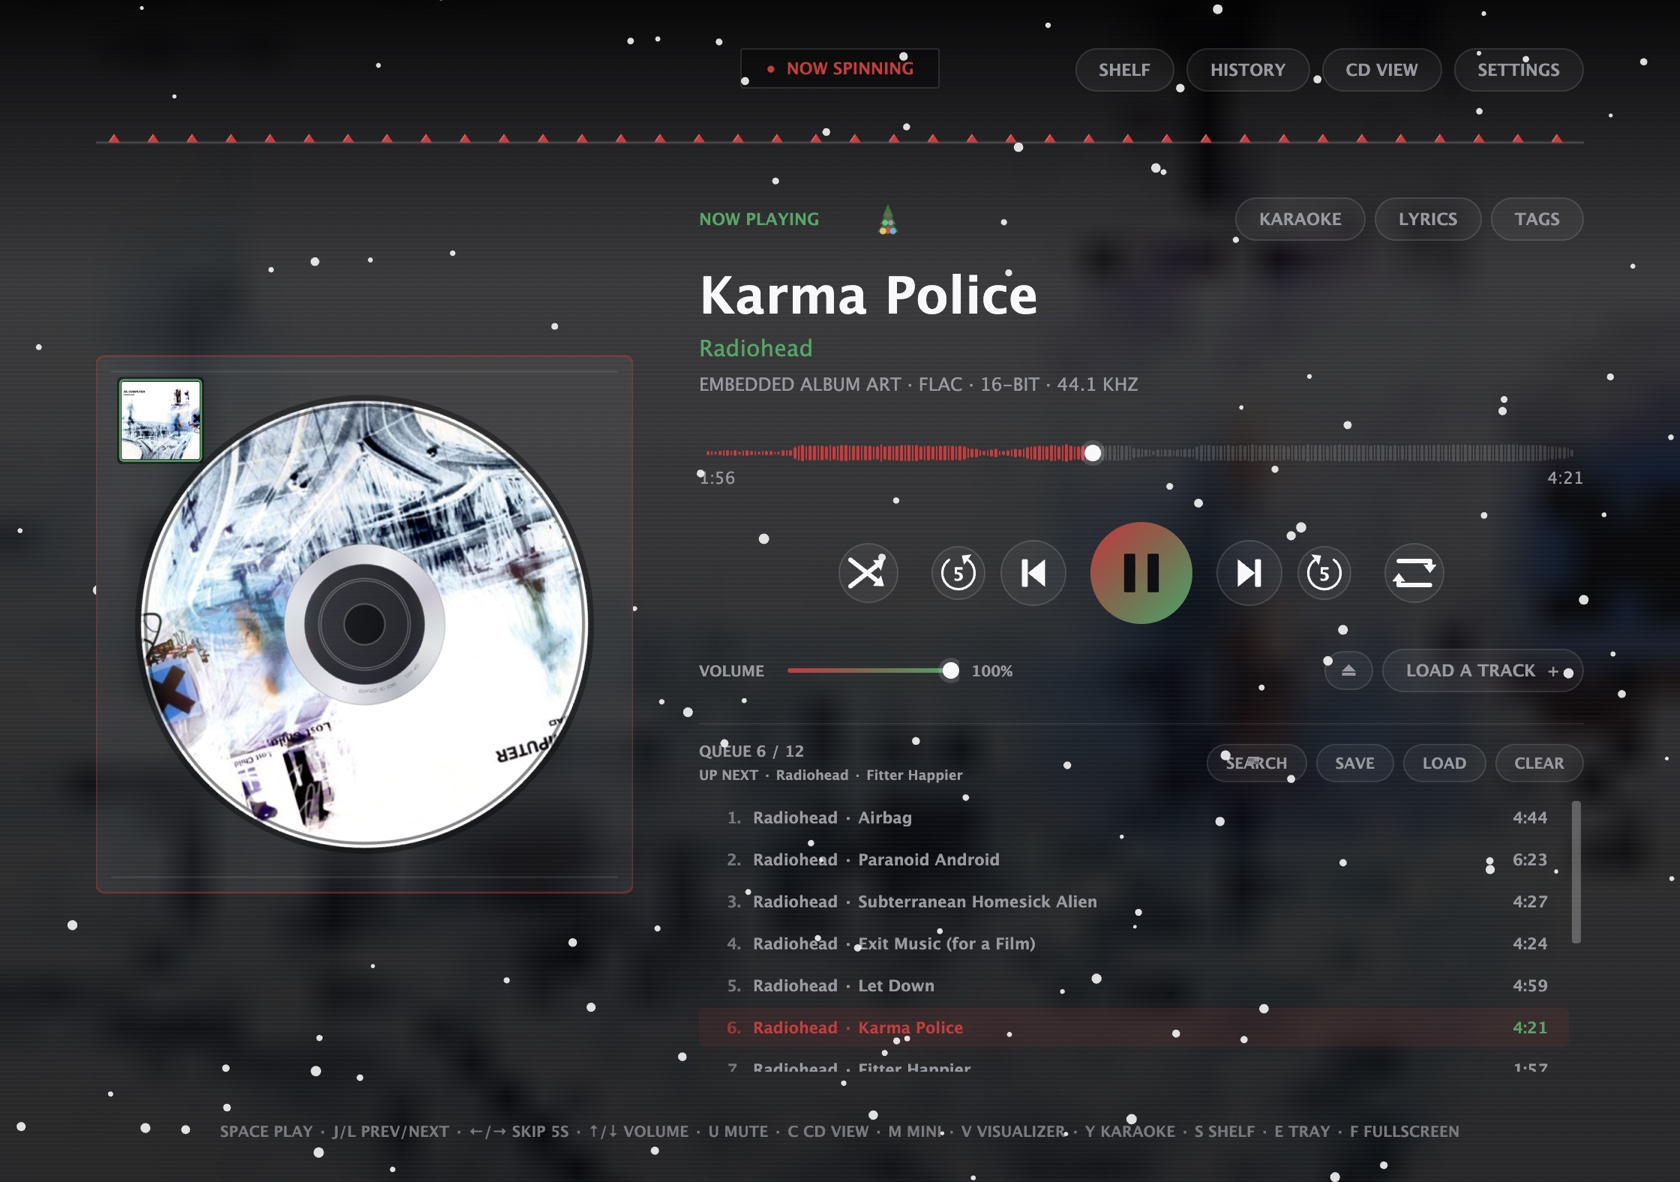
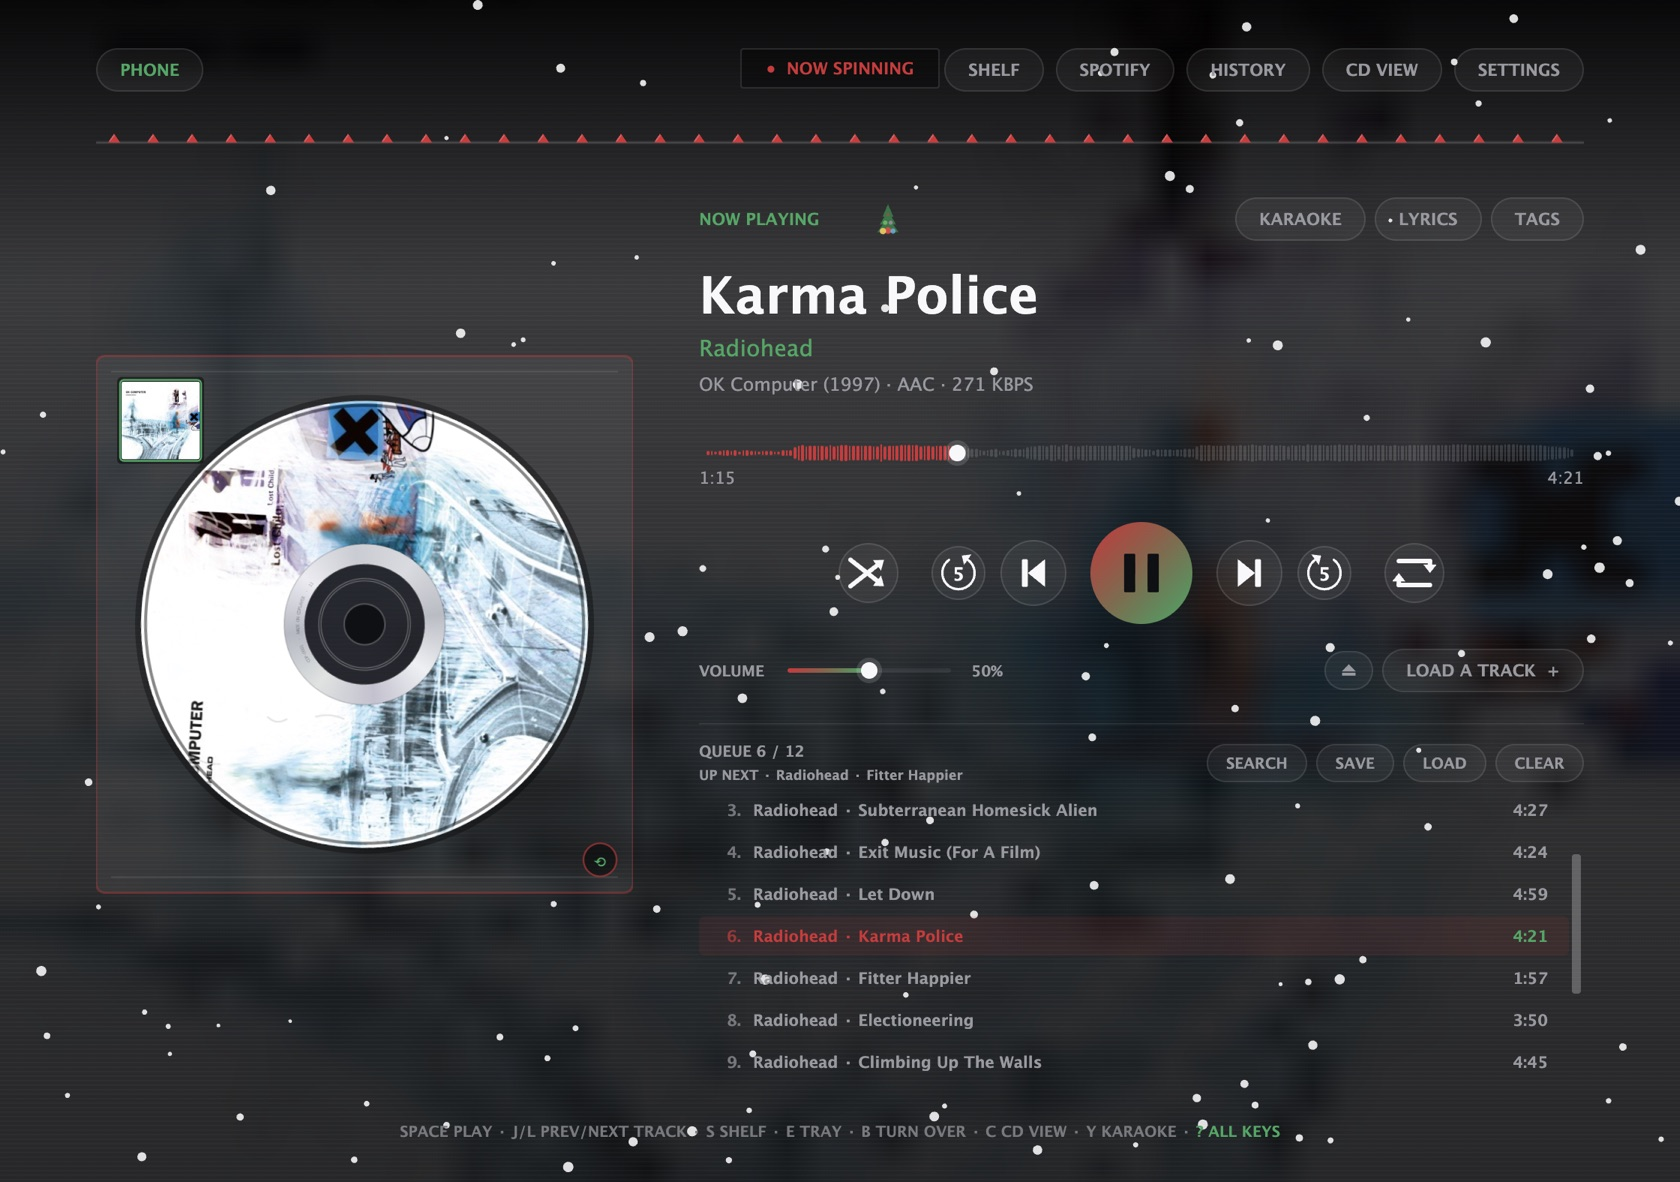
README: fresh screenshots of 2.16 — the CD changer, SNOW with a phone connected, and the phone remote's PLAYING and CHANGER screens; the Updating heading stands on its own line

diff --git a/README.md b/README.md
@@ -3,8 +3,8 @@
 A desktop music player that feels like a real CD player — for your local music, your CDs, and (with Spotify Premium) your Spotify albums. No account, nothing else to install: MP3, M4A/ALAC, FLAC, WAV, AIFF, AU, OGG and Opus all play out of the box on macOS, Windows and Linux.
 
 <p align="center">
-  <img src="docs/screenshots/main-red.jpg" width="49%" alt="CDPlayer main window, RED theme, playing a ripped OK Computer">
-  <img src="docs/screenshots/main-snow.jpg" width="49%" alt="CDPlayer main window, SNOW theme with falling snow">
+  <img src="docs/screenshots/main-changer.jpg" width="49%" alt="CDPlayer main window in CD changer mode: KID A MNESIA playing, five discs in the carousel and the disc's tracklist beside it">
+  <img src="docs/screenshots/main-snow.jpg" width="49%" alt="CDPlayer main window, SNOW theme with falling snow, OK Computer in the queue and a phone connected">
 </p>
 
 ## Download
@@ -17,7 +17,9 @@ Grab the file for your system from [**Releases**](https://github.com/Kizarov3/CD
 | **Windows** 10 / 11 | `CDPlayer-x.y.z-windows.exe` | Double-click — no installation |
 | **Linux** | `CDPlayer-x.y.z-linux.AppImage` | `chmod +x`, then double-click |
 
-The builds aren't signed with a paid certificate, so the first launch asks once: on macOS right-click the app → **Open** → **Open**; on Windows **More info** → **Run anyway**. ### Updating
+The builds aren't signed with a paid certificate, so the first launch asks once: on macOS right-click the app → **Open** → **Open**; on Windows **More info** → **Run anyway**.
+
+### Updating
 
 When a new version is out, an **AVAILABLE** button appears in the player's top-left corner: click it to download the update (checked against the release's SHA-256), then **RESTART TO UPDATE** — CDPlayer puts the new version in place of the one you run and opens it, your queue kept. This works from 2.13.0 on.
 
@@ -55,6 +57,10 @@ When a new version is out, an **AVAILABLE** button appears in the player's top-l
 <p align="center">
   <img src="docs/screenshots/disc-wear.jpg" width="49%" alt="A much-played disc in CD view: scratches, scuffs and a thumbprint over its cover art">
   <img src="docs/screenshots/karaoke.jpg" width="49%" alt="Karaoke Mode: the line being sung, filling in word by word, a duet's singers on either side">
+</p>
+<p align="center">
+  <img src="docs/screenshots/remote-playing.jpg" width="24%" alt="The phone remote in the phone's browser: the spinning disc, the song, seek bar, play controls and volume">
+  <img src="docs/screenshots/remote-changer.jpg" width="24%" alt="The phone remote's CHANGER tab: the five discs, DISC SKIP and the playing disc's tracklist">
 </p>
 
 ## Keyboard shortcuts
